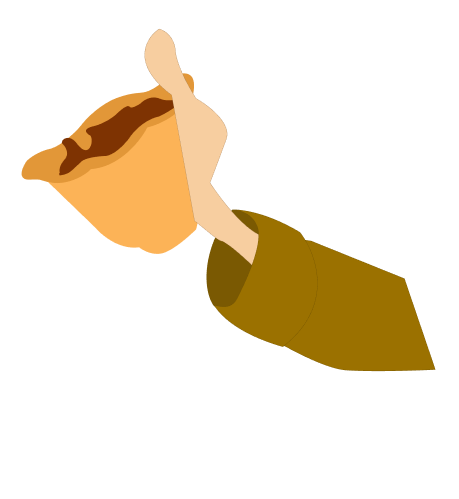
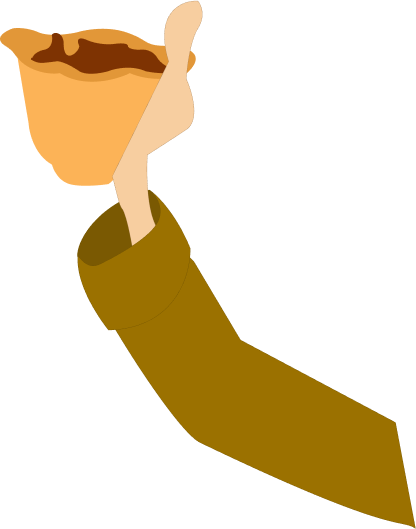
#62 - Changed bounce from y to x

diff --git a/src/components/TeaParty/styles.js b/src/components/TeaParty/styles.js
@@ -1,5 +1,5 @@
 import styled from "styled-components";
-import { bounce } from "../Animations";
+import { bounceX } from "../Animations";
 
 export const Background = styled.div`
   background-color: lavenderblush;
@@ -14,6 +14,7 @@ export const Container = styled.div`
 export const MadHatter = styled.div`
   display: flex;
   justify-content: center;
+  background-color: lavender;
 `;
 
 export const Hatter = styled.img`
@@ -26,12 +27,12 @@ export const Arm = styled.img`
   height: auto;
   width: 10rem;
   left: -9rem;
-  top: 8rem;
+  top: 4rem;
   position: relative;
 `;
 
 export const Bounce = styled.div`
-  animation: ${bounce} 2s linear infinite;
+  animation: ${bounceX} 2s linear infinite;
 `;
 
 export function BouncingArm({ image }) {

diff --git a/src/components/Animations/index.js b/src/components/Animations/index.js
@@ -10,6 +10,11 @@ export const bounce = keyframes`
   50% { transform: translateY(-30px); }
   100% { transform: translateY(0); }
 `;
+export const bounceX = keyframes`
+  0% { transform: translateX(0); }
+  50% { transform: translateX(30px); }
+  100% { transform: translateX(0); }
+`;
 
 export const pulse = keyframes`
 0% { transform: scale(1); } 
